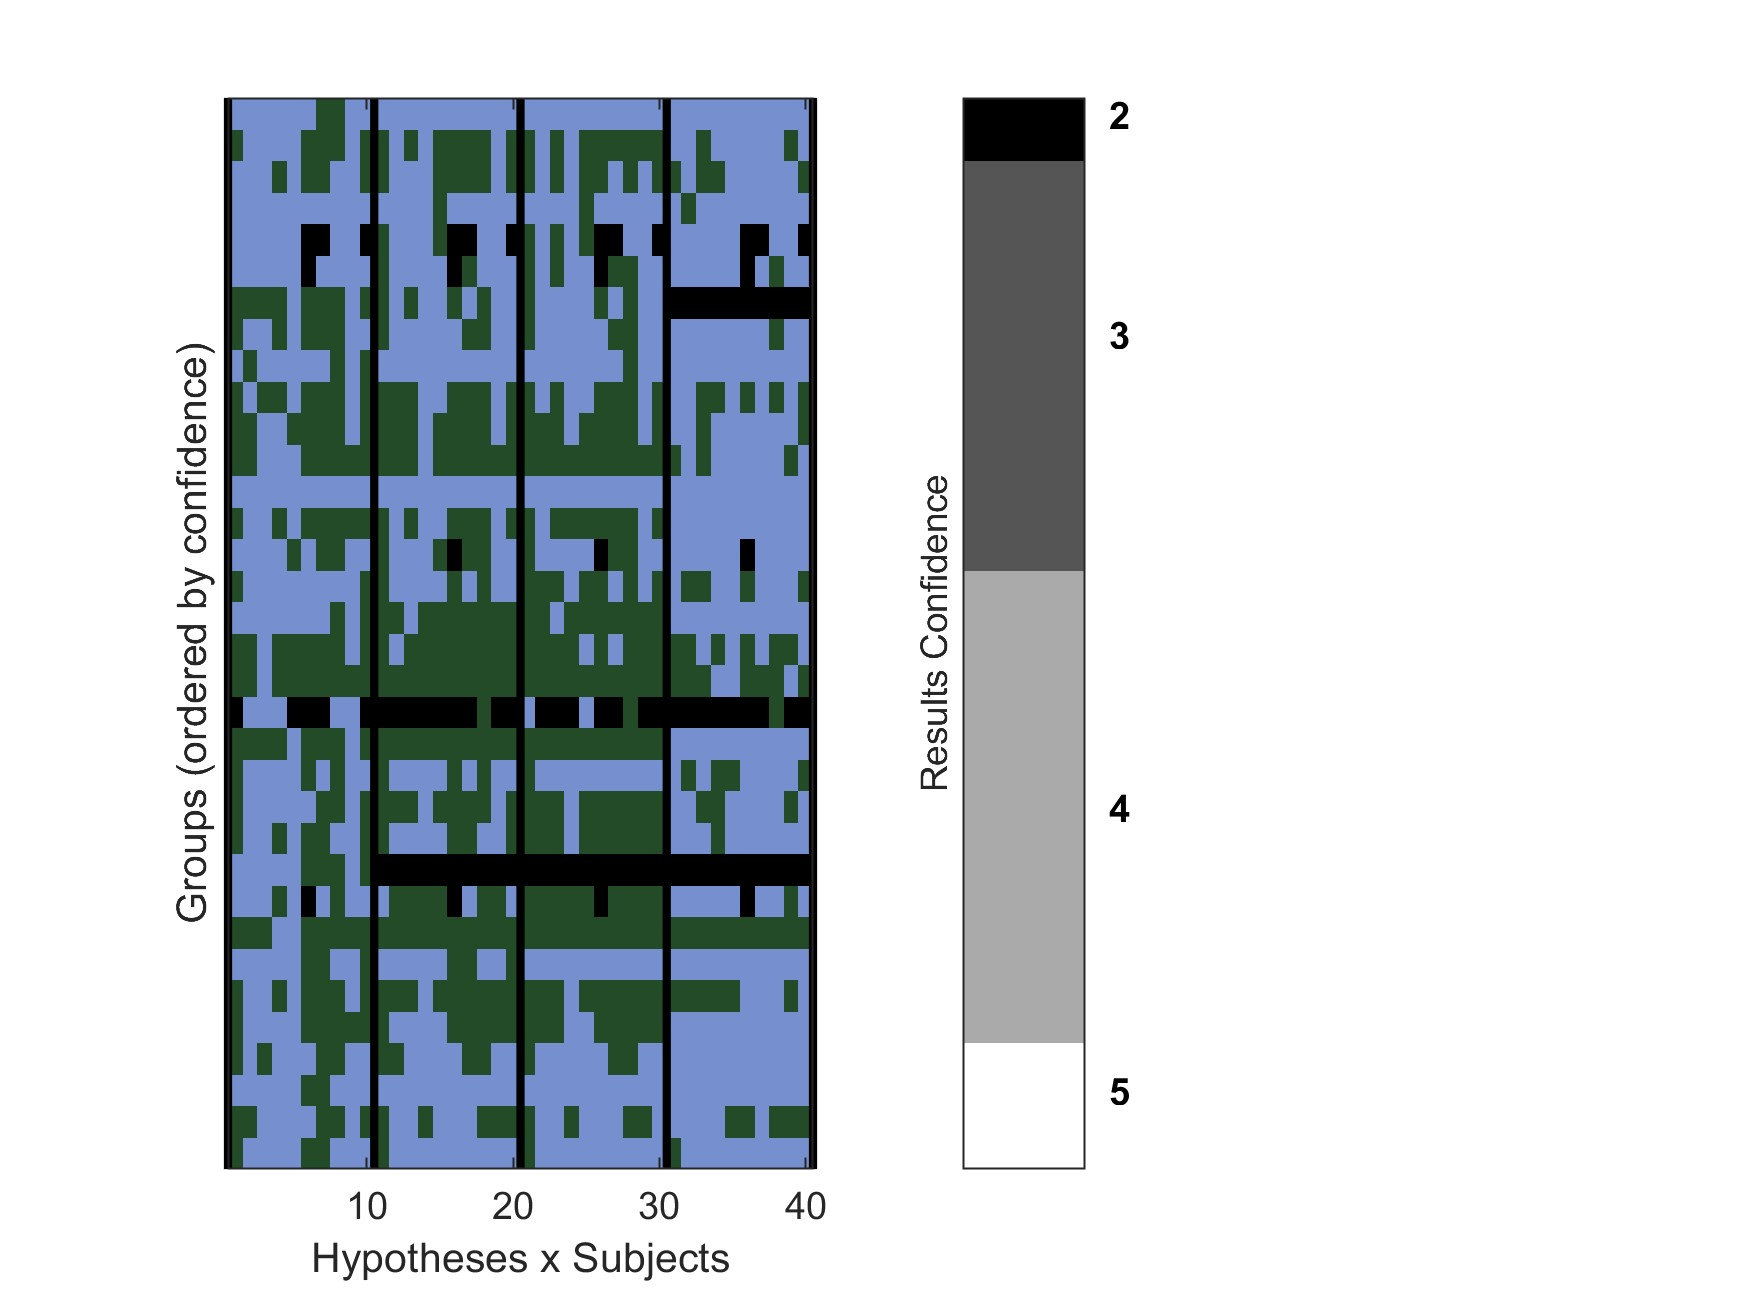
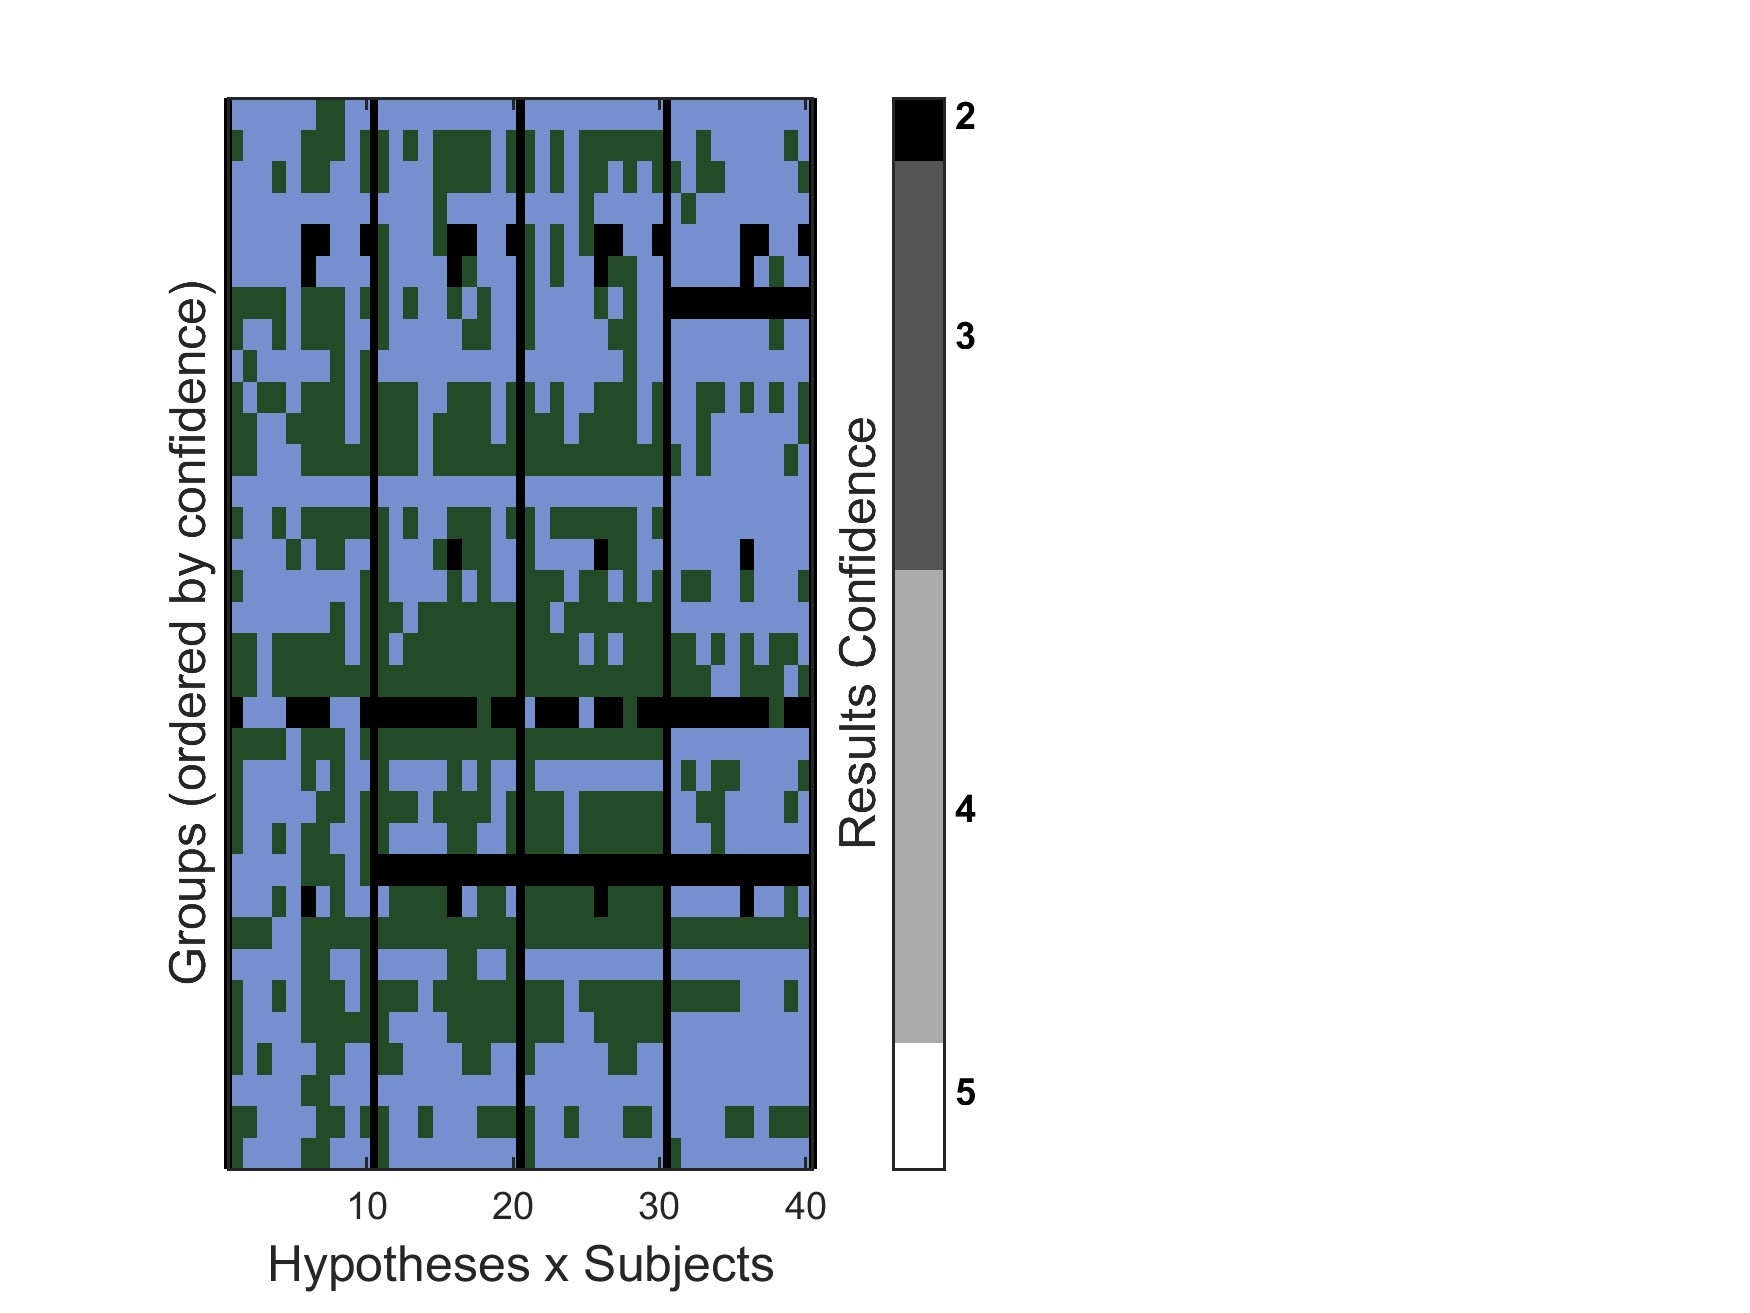
Figure update
Cleaned up figure based on author feedback. Larger fonts, extra labels etc.

diff --git a/meryem/fig_confidence_vs_hypothesis_conf.m b/meryem/fig_confidence_vs_hypothesis_conf.m
@@ -32,13 +32,13 @@ figure;
 
 subplot1 = subplot(1,2,1); imagesc(fooH');
 cmap = colormap(subplot1, [cmaps(170,:); cmaps(40,:); 0 0 0]);
-xlabel('Hypotheses'); ylabel('Groups (ordered by confidence)');
+xlabel('Hypotheses', 'FontSize',12); ylabel('Groups (ordered by confidence)', 'FontSize',12);
 set(gca,'ytick',[])
 
 if StudyID == 1
-    xlabel('Hypotheses');
+    xlabel('Hypotheses', 'FontSize',12);
 else
-    xlabel('Hypotheses x Subjects');
+    xlabel('Hypotheses x Subjects', 'FontSize',12);
     for column = 0.5 : 10  : 40.5
         line([column, column], [0, 100], 'LineWidth',2, 'Color','black');
     end
@@ -52,13 +52,6 @@ x_positions = [0.6 1.9 3];  % X-coordinates for text
 y_positions = [-1 -1 -1];  % Y-coordinates for text
 text_labels = {'Yes', 'No', 'Not Investigated'};  % Labels for text
 
-
-% Add text annotations with specified colors and bold font
-% hold on;
-% for i = 1:numel(text_labels)
-%     text(x_positions(i), y_positions(i), text_labels{i}, 'Color', cmap(i, :), 'FontSize', 9, 'FontWeight', 'bold');
-% end
-% hold off;
 
 % Add text annotations with white font color and background color matching cmap
 if flag_labels
@@ -80,12 +73,12 @@ end
 subplot2 = subplot(1,2,2);
 imagesc(conf);
 cmap = colormap(subplot2, gray);
-subplot2.Position = [0.55, 0.11, 0.07, 0.815]; % [left, bottom, width, height]
+subplot2.Position = [0.51, 0.11, 0.03, 0.815]; % [left, bottom, width, height]
 
 if flag_analysis == 1
-    ylabel('Analysis Confidence');
+    ylabel('Analysis Confidence', 'FontSize',12);
 else
-    ylabel('Results Confidence');
+    ylabel('Results Confidence', 'FontSize',12);
 end
 set(gca,'xtick',[])
 set(gca,'ytick',[])
